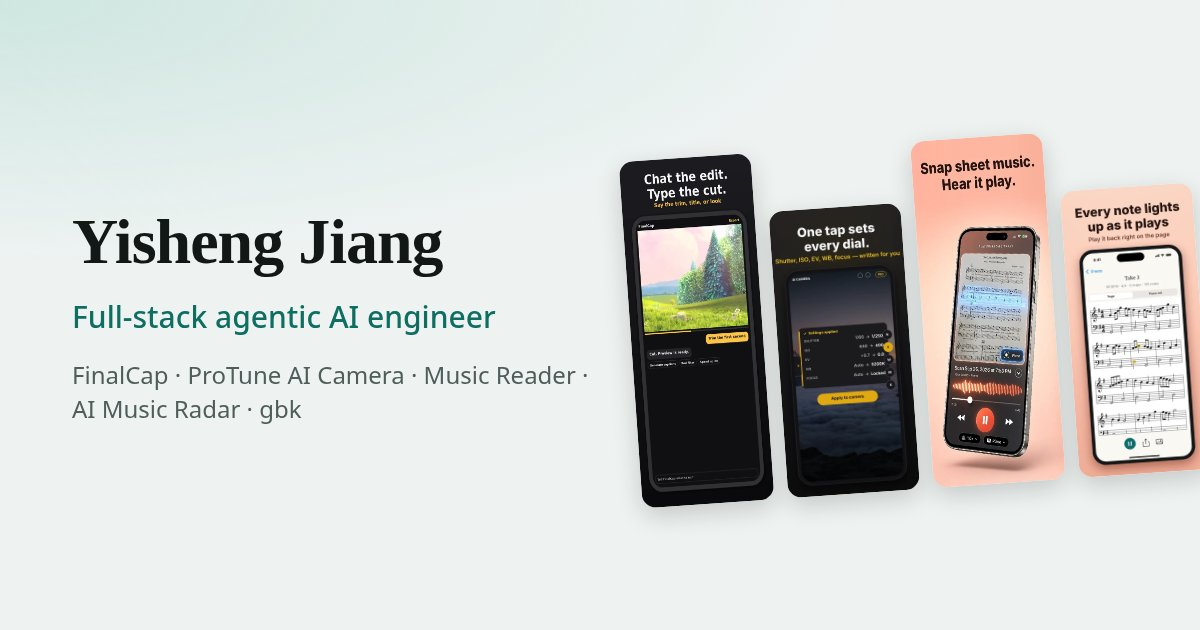
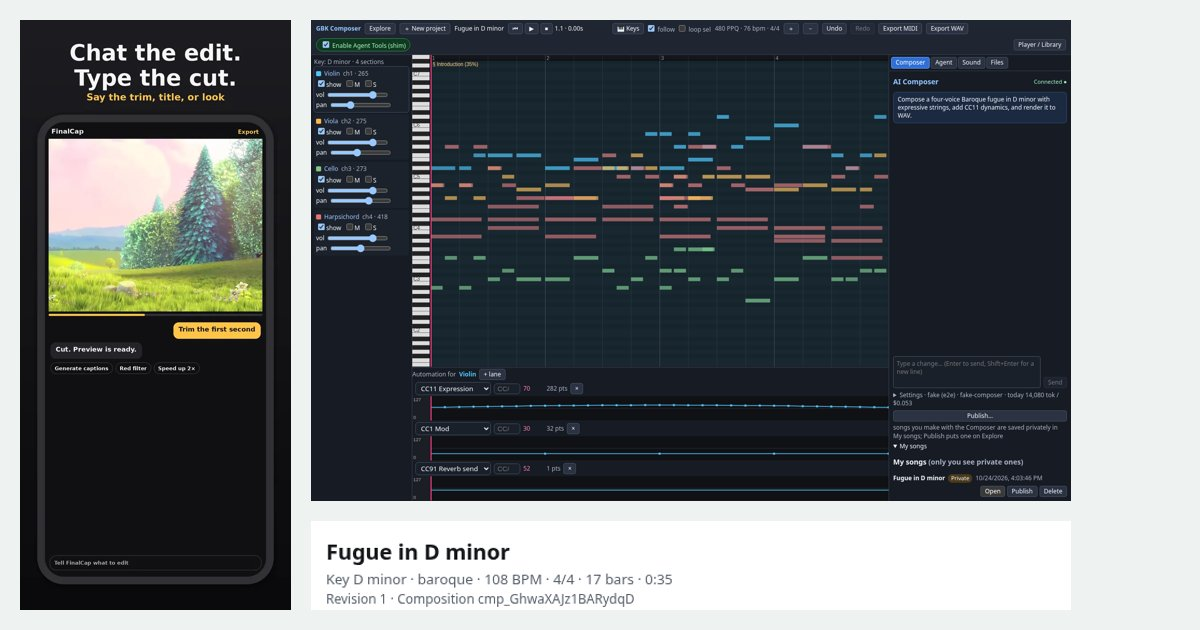
gbk Composer card: current build (WebMCP app, ChatGPT plugin, server rendering, sharing), fresh screenshots, new og image/meta

diff --git a/index.html b/index.html
@@ -4,24 +4,24 @@
     <meta charset="utf-8" />
     <meta name="viewport" content="width=device-width, initial-scale=1" />
     <title>Yisheng Jiang — Full-stack agentic AI engineer</title>
-    <meta name="description" content="Full-stack agentic AI engineer. I build and run AI camera, music, and video apps: FinalCap, ProTune AI Camera, Music Reader, AI Music Radar, and gbk." />
+    <meta name="description" content="Indie developer building agentic AI apps: FinalCap AI video editor (live on the App Store), gbk Composer (WebMCP app and ChatGPT plugin), and FilmCraft." />
     <link rel="canonical" href="https://yishengjiang99.github.io/" />
     <meta name="author" content="Yisheng Jiang" />
     <meta name="theme-color" content="#eef3f2" />
     <meta property="og:type" content="website" />
     <meta property="og:site_name" content="Yisheng Jiang" />
     <meta property="og:title" content="Yisheng Jiang — Full-stack agentic AI engineer" />
-    <meta property="og:description" content="AI camera, music, and video apps, with tool calls running on the phone, in the browser, or on the server." />
+    <meta property="og:description" content="Recent work: FinalCap AI video editor, live on the App Store; gbk Composer, an AI music studio that works as a WebMCP app and ChatGPT plugin; and FilmCraft." />
     <meta property="og:url" content="https://yishengjiang99.github.io/" />
-    <meta property="og:image" content="https://yishengjiang99.github.io/og.jpg" />
+    <meta property="og:image" content="https://yishengjiang99.github.io/og.jpg?v=2" />
     <meta property="og:image:width" content="1200" />
     <meta property="og:image:height" content="630" />
-    <meta property="og:image:alt" content="Yisheng Jiang: screenshots of FinalCap, ProTune AI Camera, Music Reader and AI Music Radar" />
+    <meta property="og:image:alt" content="Screenshots of FinalCap on iPhone, the gbk Composer studio and the gbk player in ChatGPT" />
     <meta name="twitter:card" content="summary_large_image" />
     <meta name="twitter:site" content="@YishengJiang" />
     <meta name="twitter:title" content="Yisheng Jiang — Full-stack agentic AI engineer" />
-    <meta name="twitter:description" content="AI camera, music, and video apps, with tool calls running on the phone, in the browser, or on the server." />
-    <meta name="twitter:image" content="https://yishengjiang99.github.io/og.jpg" />
+    <meta name="twitter:description" content="Recent work: FinalCap AI video editor, live on the App Store; gbk Composer, an AI music studio that works as a WebMCP app and ChatGPT plugin; and FilmCraft." />
+    <meta name="twitter:image" content="https://yishengjiang99.github.io/og.jpg?v=2" />
     <link rel="icon" type="image/svg+xml" href="/favicon.svg" />
     <link rel="preload" href="/fonts/fraunces-560.woff2" as="font" type="font/woff2" crossorigin />
     <link rel="preload" href="/fonts/outfit.woff2" as="font" type="font/woff2" crossorigin />
@@ -161,6 +161,10 @@
         letter-spacing: 0.08em;
         text-transform: uppercase;
       }
+      .shots-stack { grid-template-columns: 1fr; }
+      .tags { display: flex; flex-wrap: wrap; gap: 0.35rem; margin: 0; }
+      .tags .status { margin: 0; }
+      .card code { font-size: 0.85em; word-break: break-all; }
       .featured .card { border-color: var(--accent); }
       .grid { display: grid; gap: 1rem; grid-template-columns: 1fr; }
       @media (min-width: 760px) { .grid { grid-template-columns: 1fr 1fr; gap: 1.25rem; } }
@@ -299,17 +303,24 @@
 
 
           <article class="card" id="gbk">
-            <div class="shots">
-              <img src="/img/gbk/player.webp" srcset="/img/gbk/player-300.webp 300w, /img/gbk/player.webp 600w" sizes="(min-width: 760px) 230px, 42vw" alt="gbk’s Winamp-skinned player with a playlist of MIDI song titles" width="600" height="658" loading="lazy" decoding="async" />
-              <img src="/img/gbk/sf2-explorer.webp" srcset="/img/gbk/sf2-explorer-300.webp 300w, /img/gbk/sf2-explorer.webp 600w" sizes="(min-width: 760px) 230px, 42vw" alt="gbk SF2 Explorer listing the SoundFont’s presets by name, bank and program" width="600" height="658" loading="lazy" decoding="async" />
+            <div class="shots shots-stack">
+              <img src="/img/gbk/studio.webp" srcset="/img/gbk/studio-600.webp 600w, /img/gbk/studio.webp 1200w" sizes="(min-width: 760px) 470px, 92vw" alt="GBK Composer studio: piano roll of a fugue with tracks, automation lanes and the AI Composer panel" width="1200" height="760" loading="lazy" decoding="async" />
+              <img src="/img/gbk/chatgpt-player.webp" srcset="/img/gbk/chatgpt-player-300.webp 300w, /img/gbk/chatgpt-player.webp 600w" sizes="(min-width: 760px) 470px, 92vw" alt="GBK player inside ChatGPT showing Fugue in D minor with a piano roll and play button" width="600" height="425" loading="lazy" decoding="async" />
             </div>
             <div class="card-body">
               <h3>gbk Composer</h3>
-              <p class="status">Live · open source</p>
-              <p>An AI composer studio. Describe a song, and agents write the notes, tracks and arrangement using 47 tools.</p>
-              <p>A custom SF2 synth plays it in the browser, with Web MIDI input. Share songs and fork other people's on Explore. An MCP server for ChatGPT and Codex renders WAV and MIDI headlessly on the server.</p>
+              <p class="tags"><span class="status">WebMCP app</span> <span class="status">ChatGPT plugin</span> <span class="status">Live · open source</span></p>
+              <p>An AI music studio. Describe a song, and an agent writes the notes, tracks and arrangement. A SoundFont synth plays it in your browser.</p>
+              <p>It's a <strong>WebMCP app</strong>: the studio gives its tools to in-page agents through <code>navigator.modelContext</code>. It also <strong>works as a ChatGPT plugin</strong>. Connect <code>https://compose.grepawk.com/mcp</code> in ChatGPT or Codex. Guests need no login.</p>
+              <ul class="points">
+                <li>Server renders WAV and MIDI with no browser, and songs play right in the ChatGPT chat.</li>
+                <li>Songs auto-save privately to My songs. Publish with an AI-suggested title, share by song-name link, or fork.</li>
+                <li>Explore lists public songs. A floating piano keyboard and Web MIDI input let you play and record.</li>
+                <li>A discovery eval suite tests how agents find and use the tools.</li>
+              </ul>
               <ul class="links">
                 <li><a href="https://compose.grepawk.com" target="_blank" rel="noopener noreferrer">compose.grepawk.com</a></li>
+                <li><a href="https://compose.grepawk.com/chatgpt" target="_blank" rel="noopener noreferrer">Use in ChatGPT</a></li>
                 <li><a href="https://yishengjiang99.github.io/gbk/" target="_blank" rel="noopener noreferrer">SF2 + MIDI Explorer</a></li>
                 <li><a href="https://github.com/yishengjiang99/gbk" target="_blank" rel="noopener noreferrer">GitHub</a></li>
               </ul>
